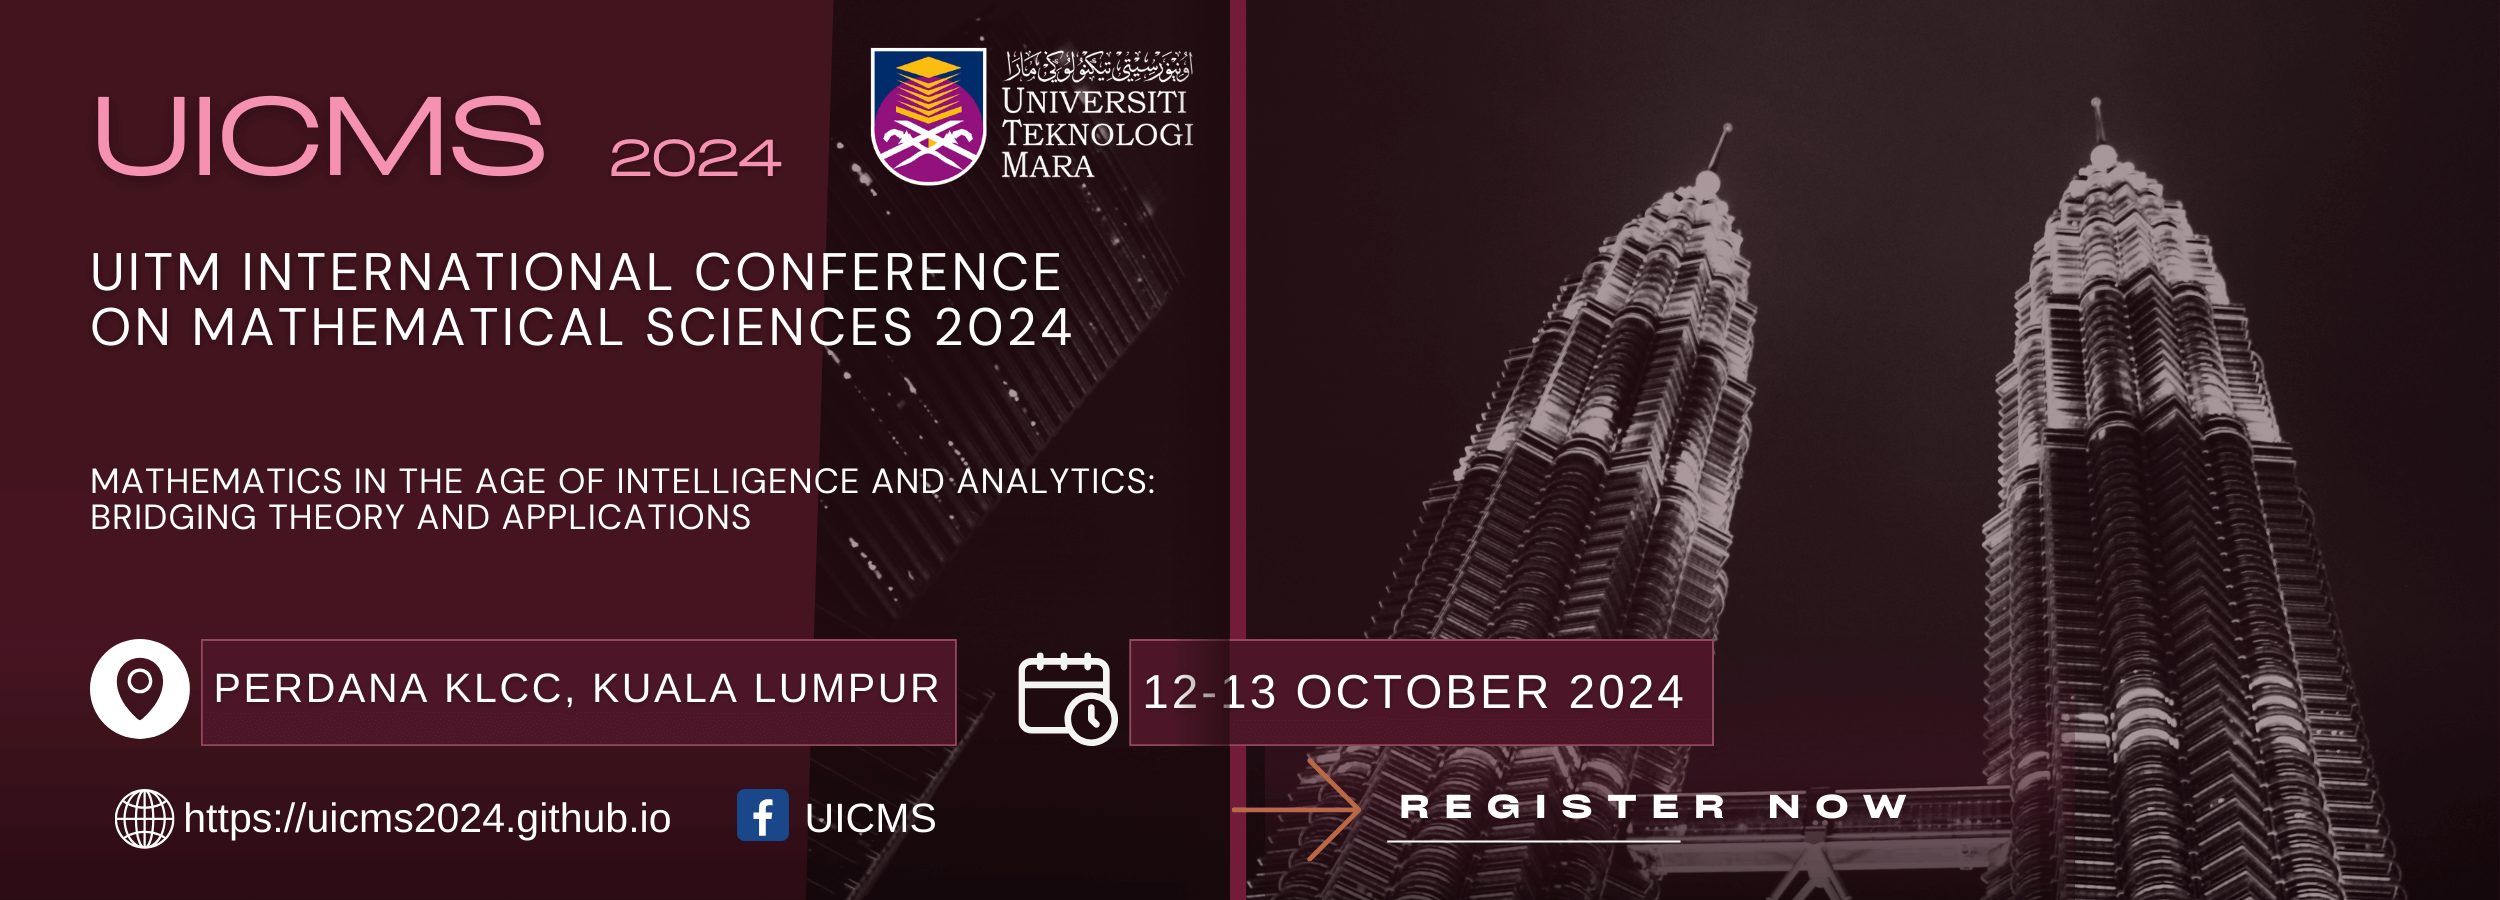
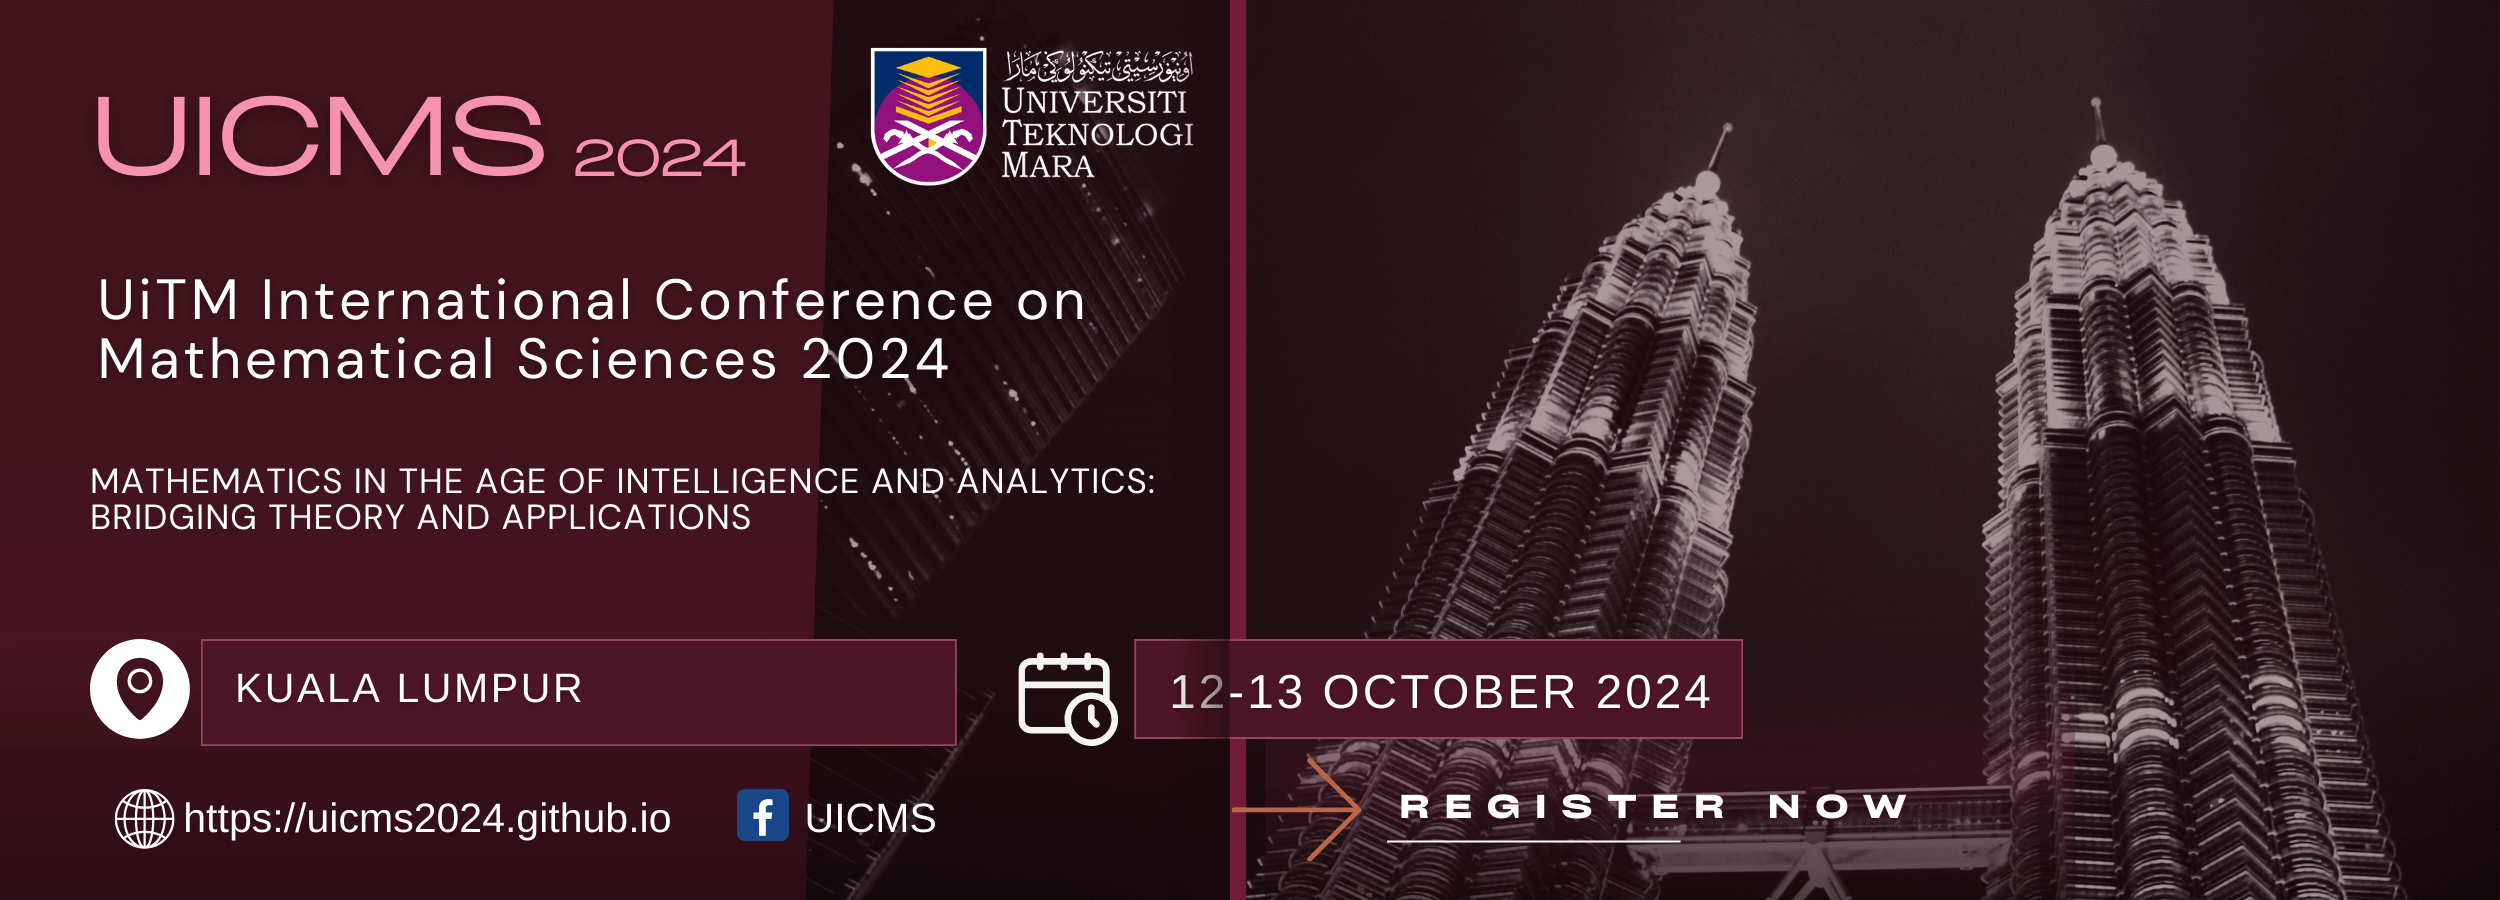
update information according to publication committee comments 24/01/2024

diff --git a/src/app/fees/fees.component.html b/src/app/fees/fees.component.html
@@ -10,8 +10,9 @@
     <tbody>
       <tr>
         <td>Presenter</td>
-        <td>Physical - USD180 (MYR850) <br>
-            Virtual - USD130 (MYR600)
+        <td>
+          Physical - USD180 (MYR850) <br />
+          Virtual - USD130 (MYR600)
         </td>
       </tr>
       <tr>
@@ -29,23 +30,31 @@
     </tbody>
   </table>
 
-
-<div>
+  <div class="mt-3">
     <p>Payment by wire transfer:</p>
-<p>
-Account holder:
-UNIVERSITI TEKNOLOGI MARA, 40450 Shah Alam, Selangor, Malaysia<br>
-Bank: BANK ISLAM (M) BERHAD<br>
-BICC/SWIFT: BIMBMYKL<br>
-Account: 12177010005662<br>
-Ref: UICMS2024<br>
-</p>
-<br>
-<p>
-After performing the payment, please email a copy of the transaction to us at {{confEmail}} for record management.
-All bank charges are to be borne by the participant.
-Payments made are NOT refundable.
-</p>
-</div>
-
+    <p>
+      Account holder: UNIVERSITI TEKNOLOGI MARA, 40450 Shah Alam, Selangor,
+      Malaysia<br />
+      Bank: BANK ISLAM (M) BERHAD<br />
+      BICC/SWIFT: BIMBMYKL<br />
+      Account: 12177010005662<br />
+      Ref: UICMS2024<br />
+    </p>
+  </div>
+  <div class="mt-3">
+    Notes:
+    <ol>
+      <li>
+        After performing the payment, please email a copy of the transaction to
+        us at {{ confEmail }} for record management. All bank charges are to be
+        borne by the participant.
+      </li>
+      <li>Payments made are NOT refundable.</li>
+      <li>
+        The conference fee does not include publication fees for indexed
+        journals. Separate invoice will be sent to the authors for article
+        processing charges of journals.
+      </li>
+    </ol>
+  </div>
 </div>

diff --git a/src/app/home/home.component.html b/src/app/home/home.component.html
@@ -1,12 +1,12 @@
 <div class="container-fluid mt-4 p-1 bg-primary text-white text-center">
   &nbsp;
 </div>
-<img src="/assets/banner2055x900-kl.png" class="img-fluid" alt="UICMS2024" />
+<img src="/assets/banner2055x900.png" class="img-fluid" alt="UICMS2024" />
 
 <div class="container mt-5">
   <h1>
-    Welcome to the UiTM International Conference on Mathematical Sciences 2024
-    (UICMS 2024)
+    Welcome to the {{confTitle}}
+    ({{confAbbrev}})
   </h1>
   <p>
     We are delighted to invite you to the UiTM International Conference on
@@ -19,7 +19,7 @@
     13th of October 2024.
   </p>
   <p class="mt-4">
-    UICMS 2024 aims to bring together a diverse group of thought leaders,
+    {{confAbbrev}} aims to bring together a diverse group of thought leaders,
     innovators, and practitioners from around the world. We are focusing on the
     critical role of mathematics in the current age of intelligence and
     analytics, emphasizing the bridge between theoretical advancements and
@@ -44,7 +44,7 @@
 
   <p class="mt-4">
     Please use this link to register:
-    <a href="https://uicms2024.edas.info/">https://uicms2024.edas.info/</a>
+    <a href="{{confSubmissionUrl}}">{{confSubmissionUrl}}</a>
   </p>
 
   <div class="container mt-5">

diff --git a/src/index.html b/src/index.html
@@ -2,7 +2,7 @@
 <html lang="en">
 <head>
   <meta charset="utf-8">
-  <title>UICMS 2024 - UiTM International Conference on Mathematical Sciences 2024</title>
+  <title>UICMS2024 - UiTM International Conference on Mathematical Sciences 2024</title>
   <base href="/">
   <meta name="robots" content="follow, index">
   <meta name="description" content="We are delighted to invite you to the UiTM International Conference on Mathematical Sciences 2024 (UICMS 2024). This conference is set to be a milestone event, unfolding on the 12th and 13th of October 2024. UICMS 2024 aims to bring together a diverse group of thought leaders, innovators, and practitioners from around the world. We are focusing on the critical role of mathematics in the current age of intelligence and analytics, emphasizing the bridge between theoretical advancements and practical applications. This gathering is a unique opportunity for academics, professionals, researchers, scholars, and students to engage in a rich exchange of ideas, experiences, and expertise.">

diff --git a/src/app/about/about.component.html b/src/app/about/about.component.html
@@ -2,7 +2,7 @@
 <div class="container mt-5 mb-5 pt-5">
     <h2 class="mb-4">About Us</h2>
 
-    <p>Join us on our Facebook page at <a href="https://www.facebook.com/uicms">{{ confAbbrev }}</a> for the latest updates, support, and a glimpse into our community! It's a great place to connect, find photos, news, and more. Your participation will make our page even more vibrant and informative. We're looking forward to seeing you there!</p>
+    <p>Join us on our Facebook page at <a href="{{confFB}}">{{ confAbbrev }}</a> for the latest updates, support, and a glimpse into our community! It's a great place to connect, find photos, news, and more. Your participation will make our page even more vibrant and informative. We're looking forward to seeing you there!</p>
 
     <p>For any enquiries, feel free to contact us at {{ confEmail }}. We're here to help and would love to hear from you!</p>
     <br>

diff --git a/src/environments/environment.ts b/src/environments/environment.ts
@@ -1,15 +1,16 @@
 export const environment = {
   production: true,
   confTitle: 'UiTM International Conference on Mathematical Sciences 2024',
-  confAbbrev: 'UICMS 2024',
+  confAbbrev: 'UICMS2024',
   confConj1: 'The 3rd International Conference on Mathematical Sciences (ICMS2024)',
   confConj2: 'The 3rd Computational Models and Technologies (CMT2024)',
   confUrl: 'http://uicms2024.github.io',
   confEmail: 'uicms2024@gmail.com',
-  confSubmissionUrl: '#',
+  confSubmissionUrl: 'https://uicms2024.edas.info/',
   confTemplateLink: '#',
   confDate: '12th - 13th October 2024',
-  confVenue: 'Perdana Kuala Lumpur City Centre',
+  //confVenue: 'Perdana Kuala Lumpur City Centre',
+  confVenue: 'Kuala Lumpur',
   confTel: '+60355435312',
   //confTel: '+60132244790',
   confFB: 'https://www.facebook.com/uicms/',

diff --git a/src/app/cfp/cfp.component.html b/src/app/cfp/cfp.component.html
@@ -21,15 +21,16 @@
         <li>Applied and Computational Mathematics (ACM)</li>
         <li>Algebra and Analysis (AA)</li>
         <li>Differential Equations and Numerical Analysis (DENA)</li>
+        <li>Statistic and Actuarial Sciences (SAS)</li>
       </ul>
       <p class="mt-4">
         Please use this link to register:
-        <a href="https://uicms2024.edas.info/">https://uicms2024.edas.info/</a>
+        <a href="{{confSubmissionUrl}}">{{confSubmissionUrl}}</a>
       </p>
     </div>
   </div>
 
   <div class="row">
-    <img src="/assets/poster1080x1080-kl.png" class="img-fluid" alt="UICMS2024" />
+    <img src="/assets/poster1080x1080.png" class="img-fluid" alt="{{confAbbrev}}" />
   </div>
 </div>

diff --git a/src/environments/environment.development.ts b/src/environments/environment.development.ts
@@ -1,12 +1,12 @@
 export const environment = {
   production: true,
   confTitle: 'UiTM International Conference on Mathematical Sciences 2024',
-  confAbbrev: 'UICMS 2024',
+  confAbbrev: 'UICMS2024',
   confConj1: 'The 3rd International Conference on Mathematical Sciences (ICMS2024)',
   confConj2: 'The 3rd Computational Models and Technologies (CMT2024)',
   confUrl: 'http://uicms2024.github.io',
   confEmail: 'uicms2024@gmail.com',
-  confSubmissionUrl: '#',
+  confSubmissionUrl: 'https://uicms2024.edas.info/',
   confTemplateLink: '#',
   confDate: '12th - 13th October 2024',
   //confVenue: 'Perdana Kuala Lumpur City Centre',

diff --git a/src/app/registration/registration.component.html b/src/app/registration/registration.component.html
@@ -4,7 +4,7 @@
     <div class="col-md-12">
       <p class="mt-4">
         Please use this link to register:
-        <a href="https://uicms2024.edas.info/">https://uicms2024.edas.info/</a>
+        <a href="{{confSubmissionUrl}}">{{confSubmissionUrl}}</a>
       </p>
       <!-- <p class="mt-4">
         Registration and payment should be completed by the latest on 12th

diff --git a/src/app/registration/registration.component.ts b/src/app/registration/registration.component.ts
@@ -1,4 +1,5 @@
 import { Component } from '@angular/core';
+import { environment } from '../../environments/environment';
 
 @Component({
   selector: 'app-registration',
@@ -8,5 +9,5 @@ import { Component } from '@angular/core';
   styleUrl: './registration.component.css'
 })
 export class RegistrationComponent {
-
+  confSubmissionUrl = environment.confSubmissionUrl;
 }

diff --git a/src/app/cfp/cfp.component.ts b/src/app/cfp/cfp.component.ts
@@ -16,7 +16,7 @@ export class CfpComponent {
   confAbbrev = environment.confAbbrev;
   confConj1 = environment.confConj1;
   confConj2 = environment.confConj2;
-  confSubmissionUrl = environment.confTemplateLink;
+  confSubmissionUrl = environment.confSubmissionUrl;
   confTemplateLink = environment.confTemplateLink;
   confVenue = environment.confVenue;
 }

diff --git a/src/app/header/header.component.html b/src/app/header/header.component.html
@@ -32,7 +32,7 @@
         </li>
 
         <li class="nav-item">
-          <a class="nav-link" href="/committee">Committe</a>
+          <a class="nav-link" href="/committee">Committee</a>
         </li>
         <li class="nav-item">
           <a class="nav-link" href="/about">About</a>

diff --git a/src/app/dates/dates.component.html b/src/app/dates/dates.component.html
@@ -40,7 +40,9 @@
       </tr>
       <tr>
         <td>Payment Deadline</td>
-        <td>18 September 2024</td>
+        <td>Presenter: 24 June 2024<br>
+            Participant: 18 September 2024
+        </td>
       </tr>     
       <tr>
         <td>Conference</td>
